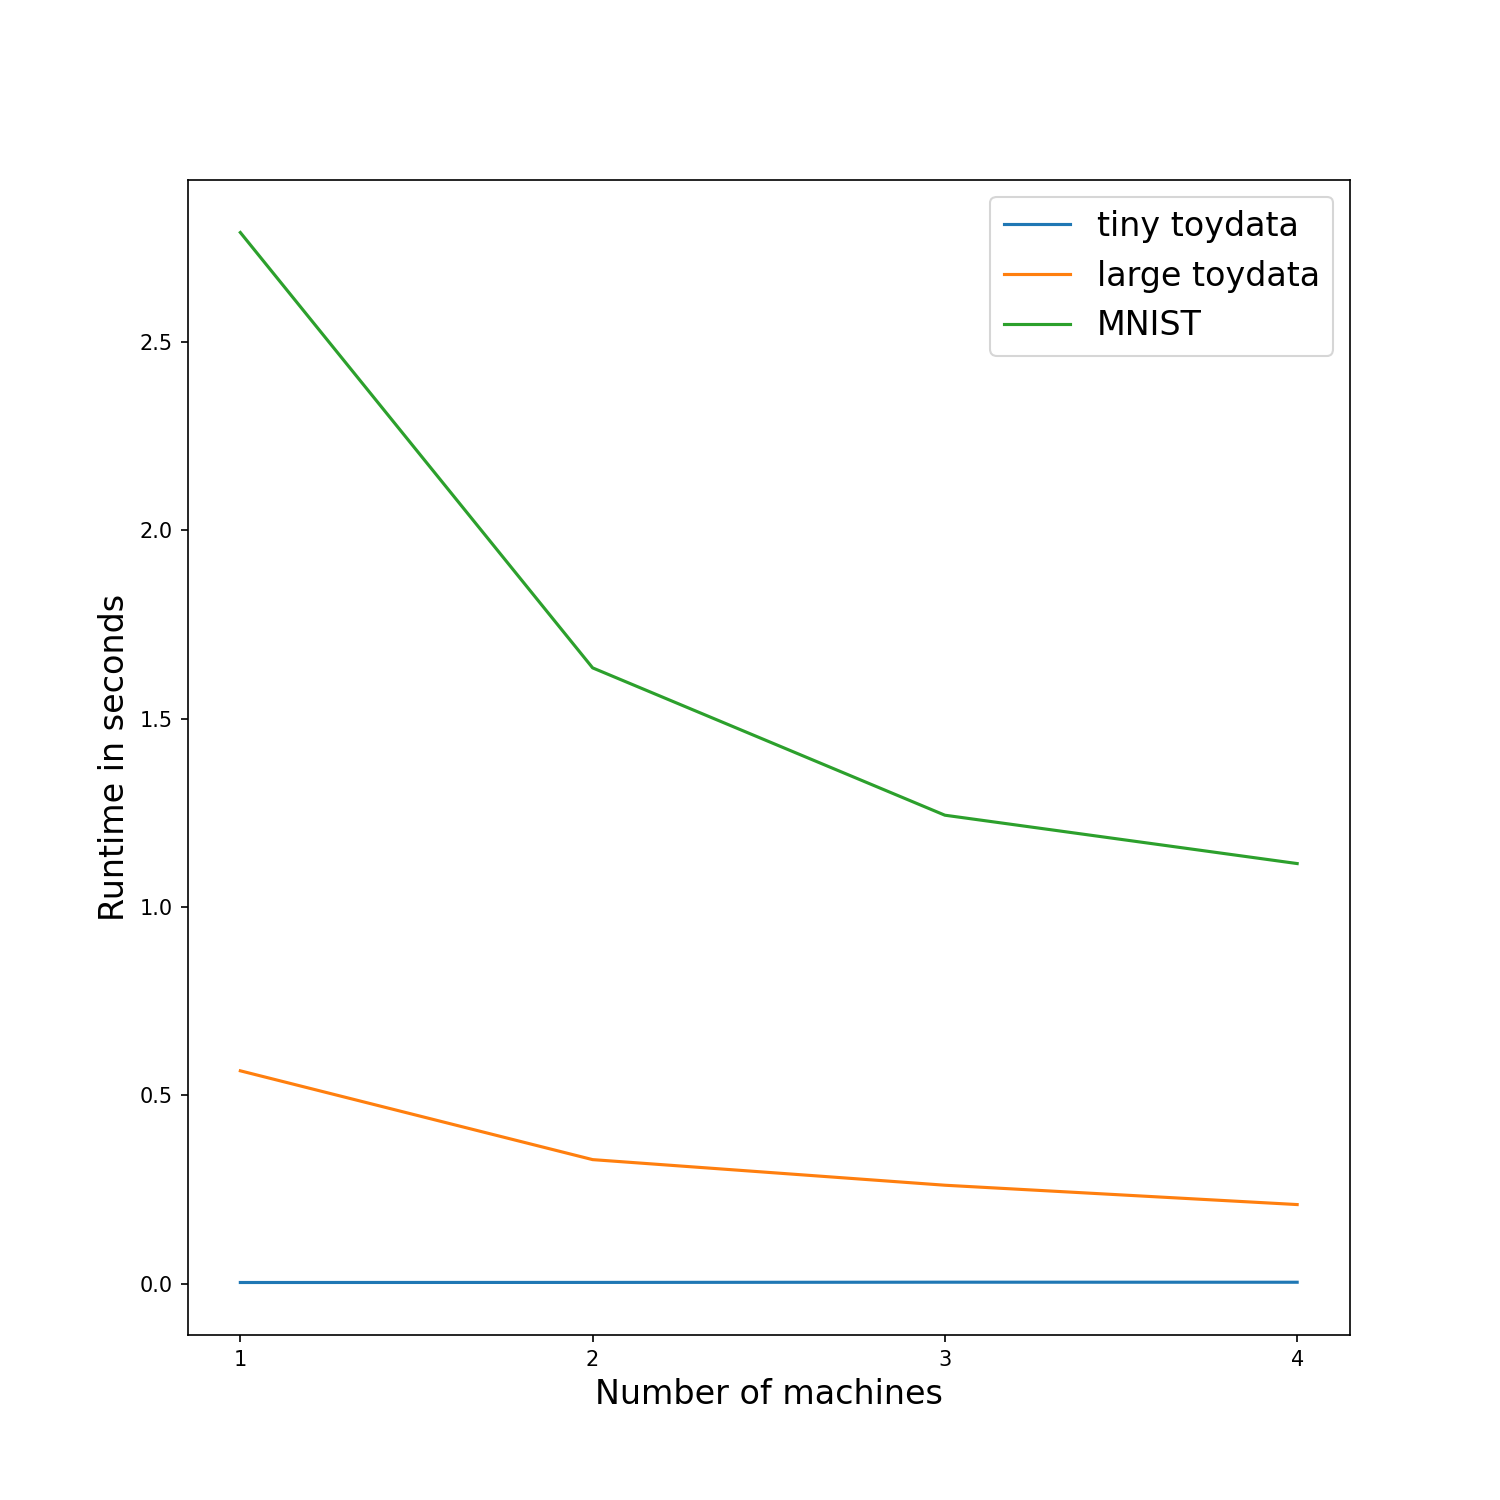
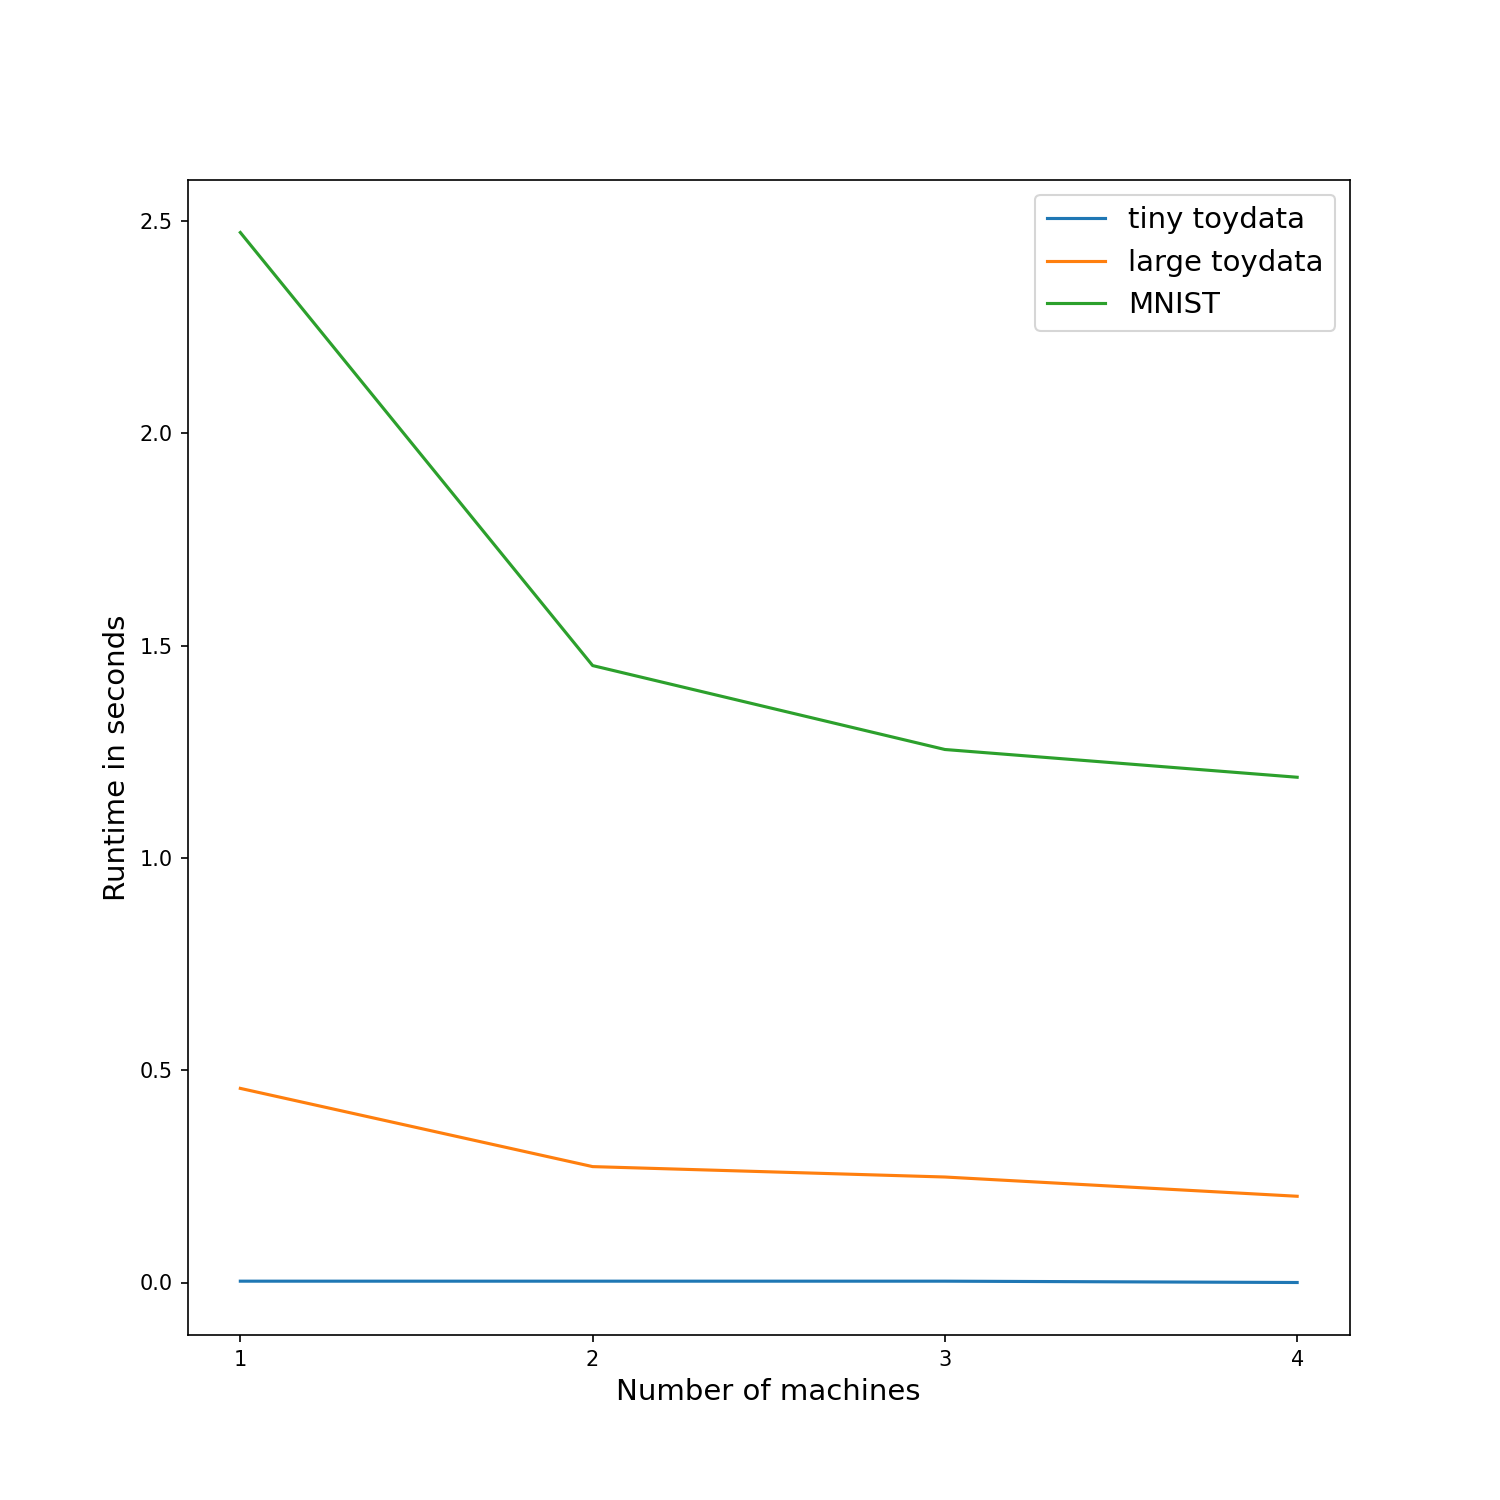
Final

diff --git a/utils.py b/utils.py
@@ -238,9 +238,9 @@ def plot_sgd_convergence(convergence_data_linear, convergence_data_rff, path):
     plt.figure(figsize=(10, 10))
     plt.plot(np.arange(1, len(convergence_data_linear)+1), convergence_data_linear, label='linear')
     plt.plot(np.arange(1, len(convergence_data_rff) + 1), convergence_data_rff, label='rff')
-    plt.xlabel('number of SGD epochs', fontsize=16)
-    plt.ylabel('SGD training error', fontsize=16)
-    plt.legend(fontsize=16)
+    plt.xlabel('number of SGD epochs', fontsize=14)
+    plt.ylabel('SGD training error', fontsize=14)
+    plt.legend(fontsize=14)
     plt.savefig(path, dpi=150)
 
 
@@ -267,8 +267,8 @@ def two_dim_scatterplot(data, labels, path):
     plt.scatter(x1, x2, c=labels, cmap='coolwarm')
     plt.tick_params(axis='x', which='both', bottom='off', top='off', labelbottom='off')
     plt.tick_params(axis='y', which='both', left='off', top='off', labelleft='off')
-    plt.xlabel(r"$x_1$", fontsize=16)
-    plt.ylabel(r"$x_2$", fontsize=16)
+    plt.xlabel(r"$x_1$", fontsize=14)
+    plt.ylabel(r"$x_2$", fontsize=14)
     plt.savefig(path, dpi=150, format='png')
 
 
@@ -296,10 +296,10 @@ def plot_parallel_runtimes(number_of_machines_tiny, number_of_machines_large, nu
     plt.plot(number_of_machines_tiny, parallel_runtimes_tiny)
     plt.plot(number_of_machines_large, parallel_runtimes_large)
     plt.plot(number_of_machines_mnist, parallel_runtimes_mnist)
-    plt.xlabel('Number of machines', fontsize=16)
+    plt.xlabel('Number of machines', fontsize=14)
     plt.xticks(number_of_machines_tiny)
-    plt.ylabel('Runtime in seconds', fontsize=16)
-    plt.legend(['tiny toydata', 'large toydata', 'MNIST'], fontsize=16)
+    plt.ylabel('Runtime in seconds', fontsize=14)
+    plt.legend(['tiny toydata', 'large toydata', 'MNIST'], fontsize=14)
     plt.savefig(path, dpi=150)
 
 
@@ -327,8 +327,8 @@ def plot_parallel_accuracies(number_of_machines_tiny, number_of_machines_large, 
     plt.plot(number_of_machines_tiny, parallel_accuracies_tiny)
     plt.plot(number_of_machines_large, parallel_accuracies_large)
     plt.plot(number_of_machines_mnist, parallel_accuracies_mnist)
-    plt.xlabel('Number of machines', fontsize=16)
+    plt.xlabel('Number of machines', fontsize=14)
     plt.xticks(number_of_machines_tiny)
-    plt.ylabel('Accuracy', fontsize=16)
-    plt.legend(['tiny toydata', 'large toydata', 'MNIST'], fontsize=16)
+    plt.ylabel('Accuracy', fontsize=14)
+    plt.legend(['tiny toydata', 'large toydata', 'MNIST'], fontsize=14)
     plt.savefig(path, dpi=150)

diff --git a/runner_mnist.py b/runner_mnist.py
@@ -100,7 +100,7 @@ def runner_mnist(path):
     # run gridsearch on RFF feature hyperparameters (m, sigma) with optimized learning rate and regularisation parameter
     print('\n--- RFF Gridsearch ---')
     m_params = [1000, 2000, 3000]
-    sigma_params = [1, 100, 200, 300, 1000]
+    sigma_params = [1, 100, 200, 300, 500, 1000]
     m_seq, sigma_seq = gridsearch_rff(sequential_svm, X_train, X_test, y_train, y_test, lr_seq, reg_seq,  m_params,
                                       sigma_params)
     print('Best feature dimension m: {}'.format(m_seq))
@@ -156,14 +156,13 @@ def runner_mnist(path):
     axs[0].semilogy(training_size, runtimes_sequential_rff, label='sequential RFF')
     axs[0].semilogy(training_size, runtimes_sklearn, label='sklearn')
     axs[0].set_xticks(training_size)
-    axs[0].set_ylabel('runtime in seconds', fontsize=16)
-    axs[0].legend(fontsize=16, bbox_to_anchor=(1.02, 1))
+    axs[0].set_ylabel('runtime in seconds', fontsize=14)
+    axs[0].legend(fontsize=14, bbox_to_anchor=(1.02, 1))
     axs[1].plot(training_size, accuracies_sequential_rff, label='sequential RFF')
     axs[1].plot(training_size, accuracies_sklearn, label='sklearn')
     axs[1].set_xticks(training_size)
-    axs[1].set_xlabel('training set size', fontsize=16)
-    axs[1].set_ylabel('accuracy', fontsize=16)
-    #axs[1].legend(fontsize=16, bbox_to_anchor=(1.04,1))
+    axs[1].set_xlabel('training set size', fontsize=14)
+    axs[1].set_ylabel('accuracy', fontsize=14)
     plt.savefig('output/mnist_sequential_rff_vs_sklearn.png', dpi=150, bbox_inches="tight")
 
     return number_of_machines, parallel_runtimes, parallel_accuracies
